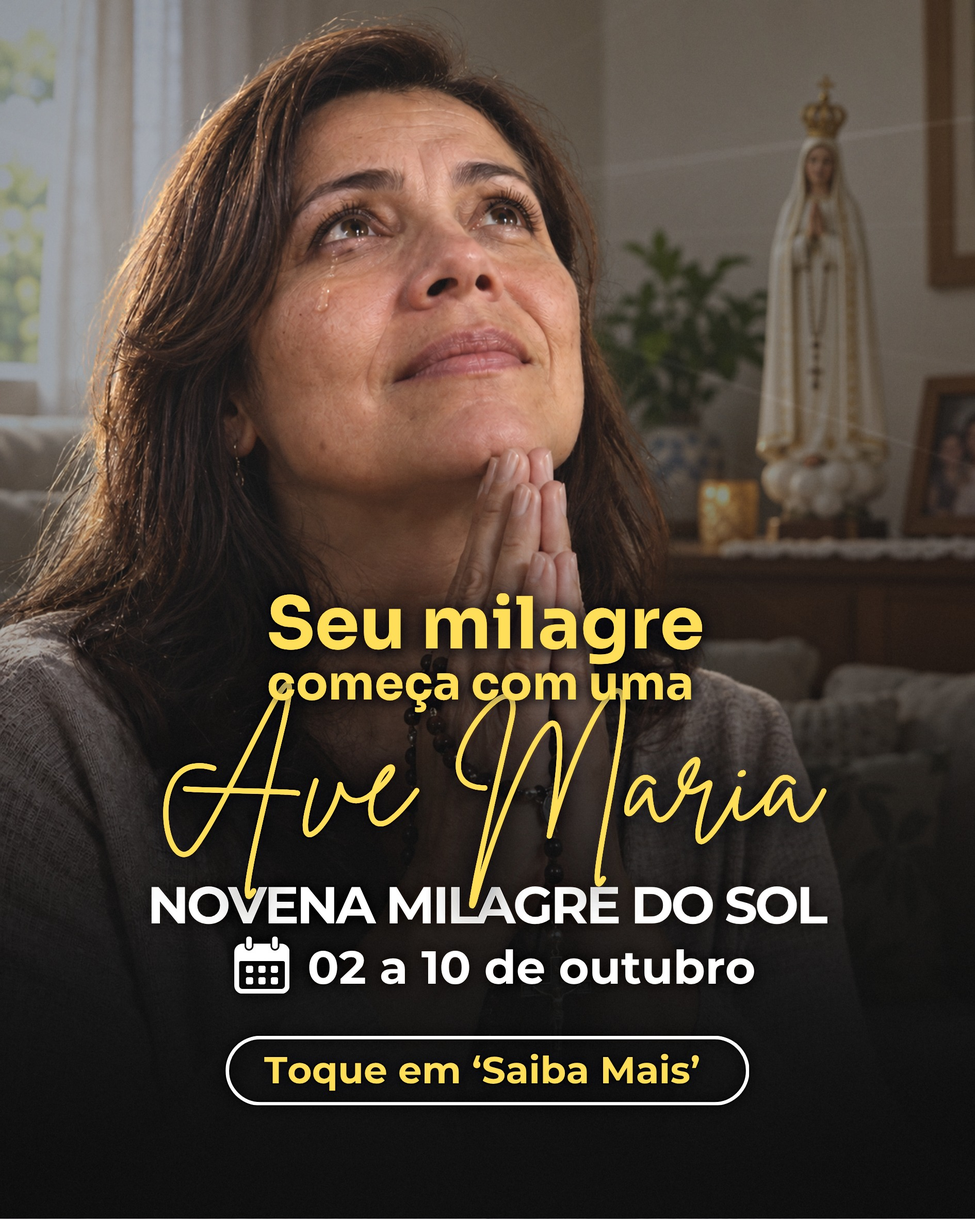
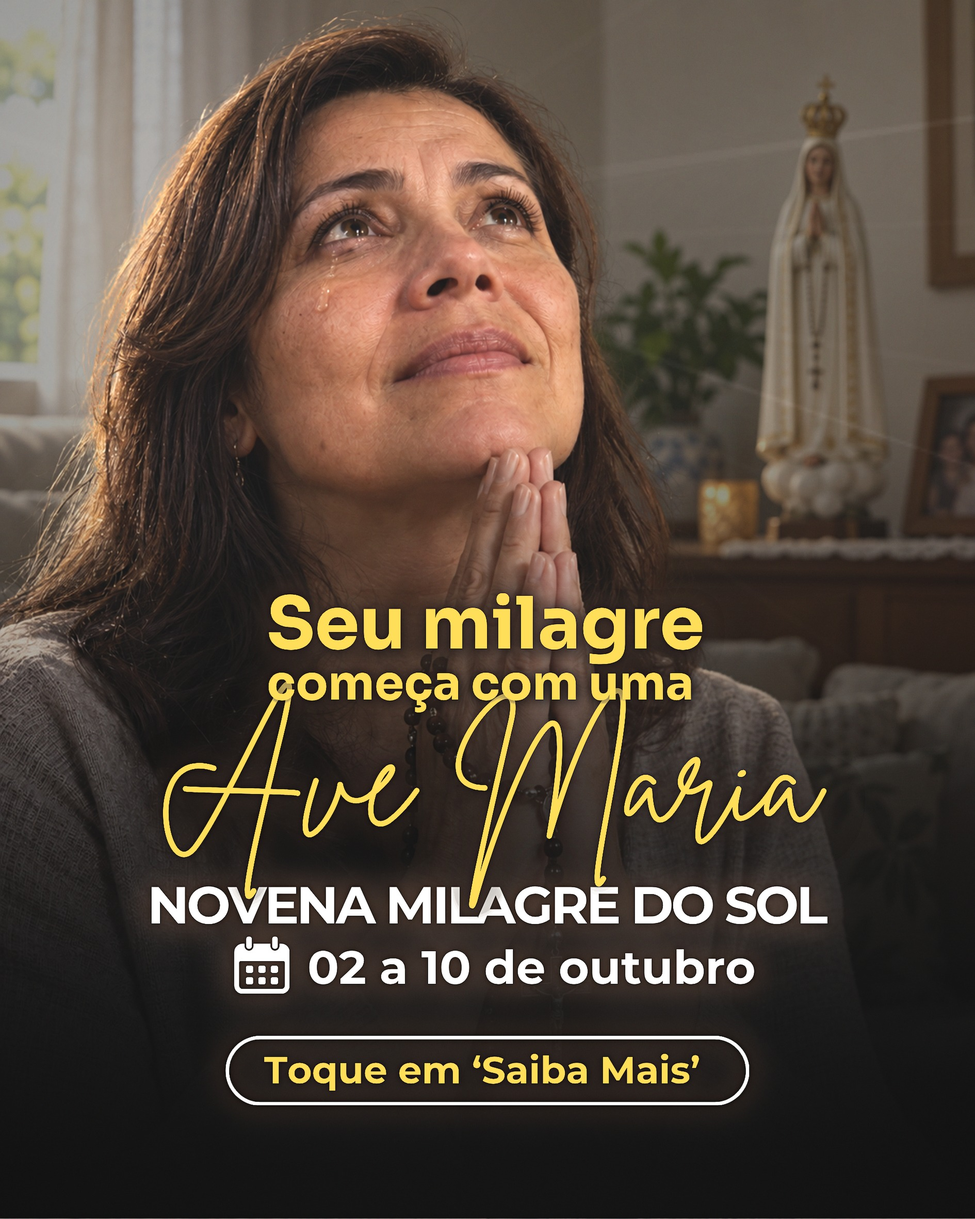
Novena: acabamento cinematografico e masterizacao 8K do criativo 1

diff --git a/novena/index.html b/novena/index.html
@@ -70,9 +70,9 @@ footer{margin:70px 0 50px;padding-top:26px;border-top:1px solid var(--linha);
 <header>
   <span class="tag">Novena Milagre do Sol · 02 a 10 de outubro</span>
   <h1>Tratamento publicitário dos criativos</h1>
-  <p class="sub">Análise de direção de arte das 12 peças e proposta de acabamento de campanha.
-  O tratamento é fotográfico e de leitura — nenhum texto, número, data, logotipo ou
-  característica física das pessoas foi alterado.</p>
+  <p class="sub">Análise de direção de arte das 12 peças e proposta de acabamento de campanha,
+  com masterização cinematográfica em 8K. O tratamento é fotográfico e de leitura — nenhum texto,
+  número, data, logotipo ou característica física das pessoas foi alterado.</p>
 </header>
 
 <h2>Proposta 1 — “Seu milagre começa com uma Ave Maria”</h2>
@@ -118,24 +118,35 @@ footer{margin:70px 0 50px;padding-top:26px;border-top:1px solid var(--linha);
 
 <div class="grid2">
   <div class="card">
-    <h3>O que foi feito</h3>
+    <h3>O que foi feito — acabamento cinematográfico</h3>
     <ul>
-      <li><b>Recuperação de sombra:</b> sombra chapada de 12,3% para 0,5%. Volta a textura do tricô, do terço e do ambiente.</li>
-      <li><b>Luz dividida:</b> sombras e meios-tons neutralizados, calor mantido só nas altas luzes — a janela continua dourada, a pele volta a ser pele.</li>
-      <li><b>Valorização do assunto:</b> clareamento local suave no rosto e nas mãos, guiando o olhar para a oração.</li>
-      <li><b>Leitura:</b> degradê discreto sob o bloco de texto, que devolve contraste ao manuscrito e ancora o rodapé.</li>
-      <li><b>Acabamento:</b> micro-contraste com proteção de pele, nitidez por máscara de borda e granulação fina — textura de fotografia, não de render.</li>
+      <li><b>Curva filmica com pé e ombro:</b> sombra chapada de 12,3% para <b>0,00%</b> e altas luzes que dobram em vez de estourar.</li>
+      <li><b>Luz dividida teal/âmbar:</b> sombras para o frio, altas luzes para o dourado — a leitura de cinema, doseada para não virar filtro.</li>
+      <li><b>Halation:</b> difusão avermelhada em volta das altas luzes, assinatura do filme fotoquímico. É o que mais separa “render” de “fotografia”.</li>
+      <li><b>Textura em várias escalas:</b> trama do tricô, fio de cabelo e veio da madeira recuperados sem endurecer a pele.</li>
+      <li><b>Grão de emulsão</b> com correlação espacial e variação por canal, aplicado já na escala final.</li>
+      <li><b>Texto em destaque:</b> degradê de leitura sob o bloco e relevo discreto no halo das letras — sem tocar nos caracteres.</li>
     </ul>
   </div>
   <div class="card">
-    <h3>O que foi preservado</h3>
+    <h3>Masterização 8K e o que foi preservado</h3>
     <ul>
-      <li>Todos os caracteres foram reconstituídos pixel a pixel a partir do arquivo original (desvio máximo medido: 2 níveis de 255).</li>
+      <li><b>6143 × 7680</b> (4:5) e <b>4320 × 7680</b> (9:16). A ampliação é feita em luz linear; a fotografia ganha escala e limpeza, não detalhe inventado.</li>
+      <li><b>Os textos não foram ampliados — foram re-renderizados na escala final</b> a partir da cobertura de cada cor chapada. Em 8K a borda é de vetor, não de bitmap esticado. Cor medida: 254,8/222,1/89,1 contra o alvo 255/222/89.</li>
       <li>Rosto, idade aparente, tom de pele, cabelo, expressão e roupa: sem qualquer alteração de anatomia.</li>
-      <li>Poros, fios e trama do tecido mantidos — o micro-contraste é segurado em 65% sobre a pele.</li>
-      <li>Formato e proporção originais: 1890 × 2363 e 1890 × 3360.</li>
+      <li>Poros, cílios e fios mantidos — o micro-contraste é segurado em 62% sobre a pele.</li>
+      <li>Proporções originais preservadas.</li>
     </ul>
   </div>
+</div>
+
+<div class="aviso">
+  <strong>Sobre “8K”, com honestidade.</strong>
+  <p style="margin:8px 0 0">A arte de origem tem 1890 px de largura. A masterização entrega um
+  arquivo em 8K com bordas limpas, textura de emulsão coerente na escala final e tipografia
+  re-renderizada — o que o arquivo grande realmente ganha. O que ela <b>não</b> faz é inventar
+  detalhe fotográfico que não existia na captura. Para 8K com detalhe real seria preciso acesso de
+  edição ao design no Canva, para exportar direto dos assets originais em alta.</p>
 </div>
 
 <div class="grid2">
@@ -152,8 +163,13 @@ footer{margin:70px 0 50px;padding-top:26px;border-top:1px solid var(--linha);
 </div>
 
 <p>
-  <a class="dl" href="final/01A.png" download>Baixar 4:5 em PNG</a>
-  <a class="dl" href="final/01B.png" download>Baixar 9:16 em PNG</a>
+  <a class="dl" href="8k/01A_8k.jpg" download>4:5 em 8K · 6143×7680</a>
+  <a class="dl" href="8k/01B_8k.jpg" download>9:16 em 8K · 4320×7680</a>
+  <a class="dl ghost" href="final/01A.png" download>4:5 PNG nativo</a>
+  <a class="dl ghost" href="final/01B.png" download>9:16 PNG nativo</a>
+</p>
+<p>
+  <a class="dl ghost" href="https://www.canva.com/d/ANnrVg9zg8Rl_Yu" target="_blank" rel="noopener">Layout tratado no Canva</a>
   <a class="dl ghost" href="https://canva.link/7mr5gz3xyb3cori" target="_blank" rel="noopener">Layout original no Canva</a>
 </p>
 
